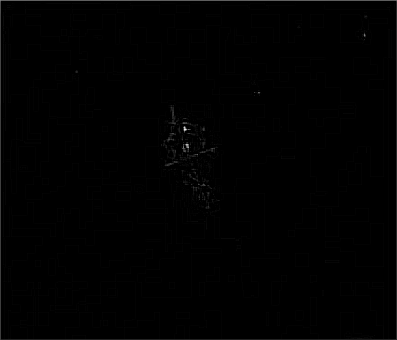
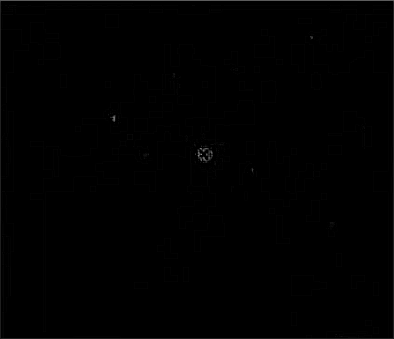
Major Updates

diff --git a/newPixel.py b/newPixel.py
@@ -1,0 +1,81 @@
+from PIL import Image, ImageFilter
+im = Image.open(r"/workspace/Experiments/Pictures/ocean3.png")
+imGrey = im.convert("L")
+imGrey.save("greyScale.png")
+imEdges = imGrey.filter(ImageFilter.FIND_EDGES)
+px = imEdges.load()
+xBound, yBound = imGrey.size
+
+coords = []
+
+img = Image.new("L", (xBound, yBound))
+
+def coordBound(img):
+    x1 = 0
+    x2 = 0
+    y1 = 0
+    y2 = 0
+    percents = []
+    px = img.load()
+    total = 0
+    white = 0
+
+    # Finding x-coord
+    for x in range(xBound):
+        total = 0
+        white = 0
+        for y in range(yBound):
+            if px[x, y] > 0:
+                white += 1
+            total += 1
+        if (white/total) != 1.0:
+            percents.append(white/total)
+    goodPercents = []
+    for i, x in enumerate(percents):
+        if x >= 0.006:
+            goodPercents.append(i)
+    x1 = goodPercents[0]
+    x2 = goodPercents[goodPercents.__len__()-1]
+    
+    # Finding y-coord
+    percents = []
+    goodPercents = []
+    for y in range(yBound):
+        total = 0
+        white = 0
+        for x in range(xBound):
+            if px[x, y] > 0:
+                white += 1
+            total += 1
+        if (white/total) != 1.0:
+            percents.append(white/total)
+    goodPercents = []
+    for i, x in enumerate(percents):
+        if x >= 0.006:
+            goodPercents.append(i)
+    y1 = goodPercents[0]
+    y2 = goodPercents[goodPercents.__len__()-1]
+    return ((x1, y1), (x2, y2))
+
+for x in range(xBound):
+    for y in range(yBound):
+        if px[x, y] >= 25:
+            coords.append((x, y))
+            img.putpixel((x, y), px[x, y])
+
+x1, y1 = coordBound(img)[0]
+x2, y2 = coordBound(img)[1]
+newXBound = x2 - x1
+newYBound = y2 - y1
+newImg = Image.new("RGB", (x2 - x1, y2 - y1))
+px = im.load()
+for ix, x in enumerate(range(x1, x2)):
+    for iy, y in enumerate(range(y1, y2)):
+        newImg.putpixel((ix, iy), px[x, y])
+
+
+
+print(coordBound(img))
+print(newXBound, newYBound)
+imEdges.save("edgeGrayScale.png")
+newImg.save("result.png")
